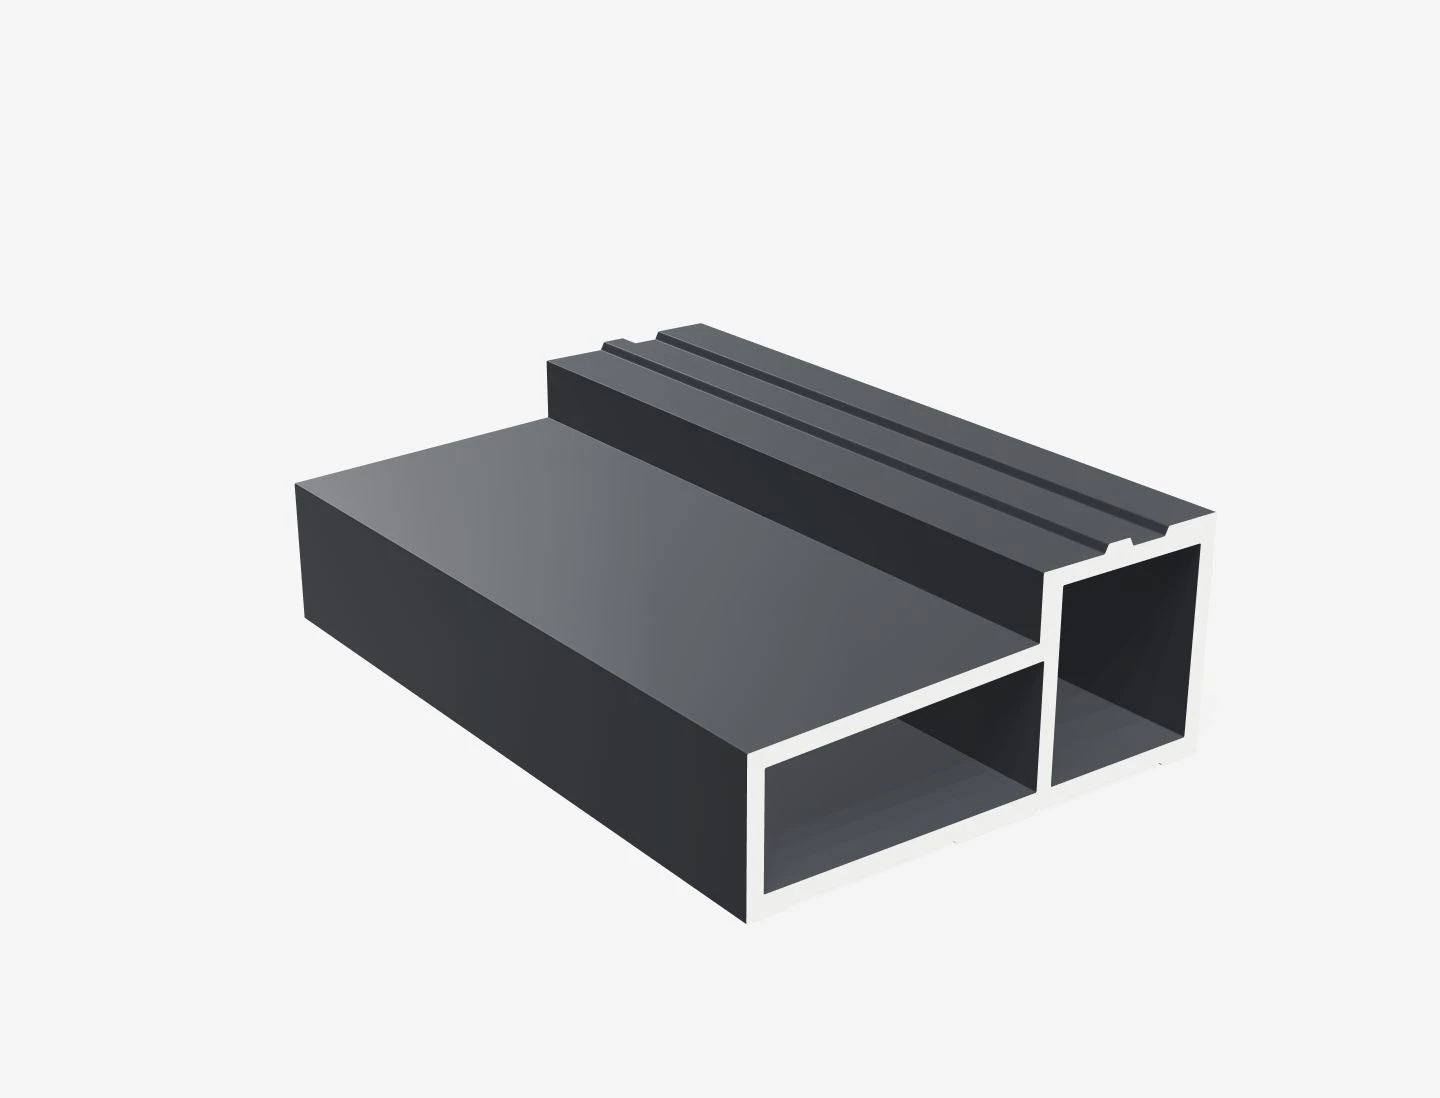
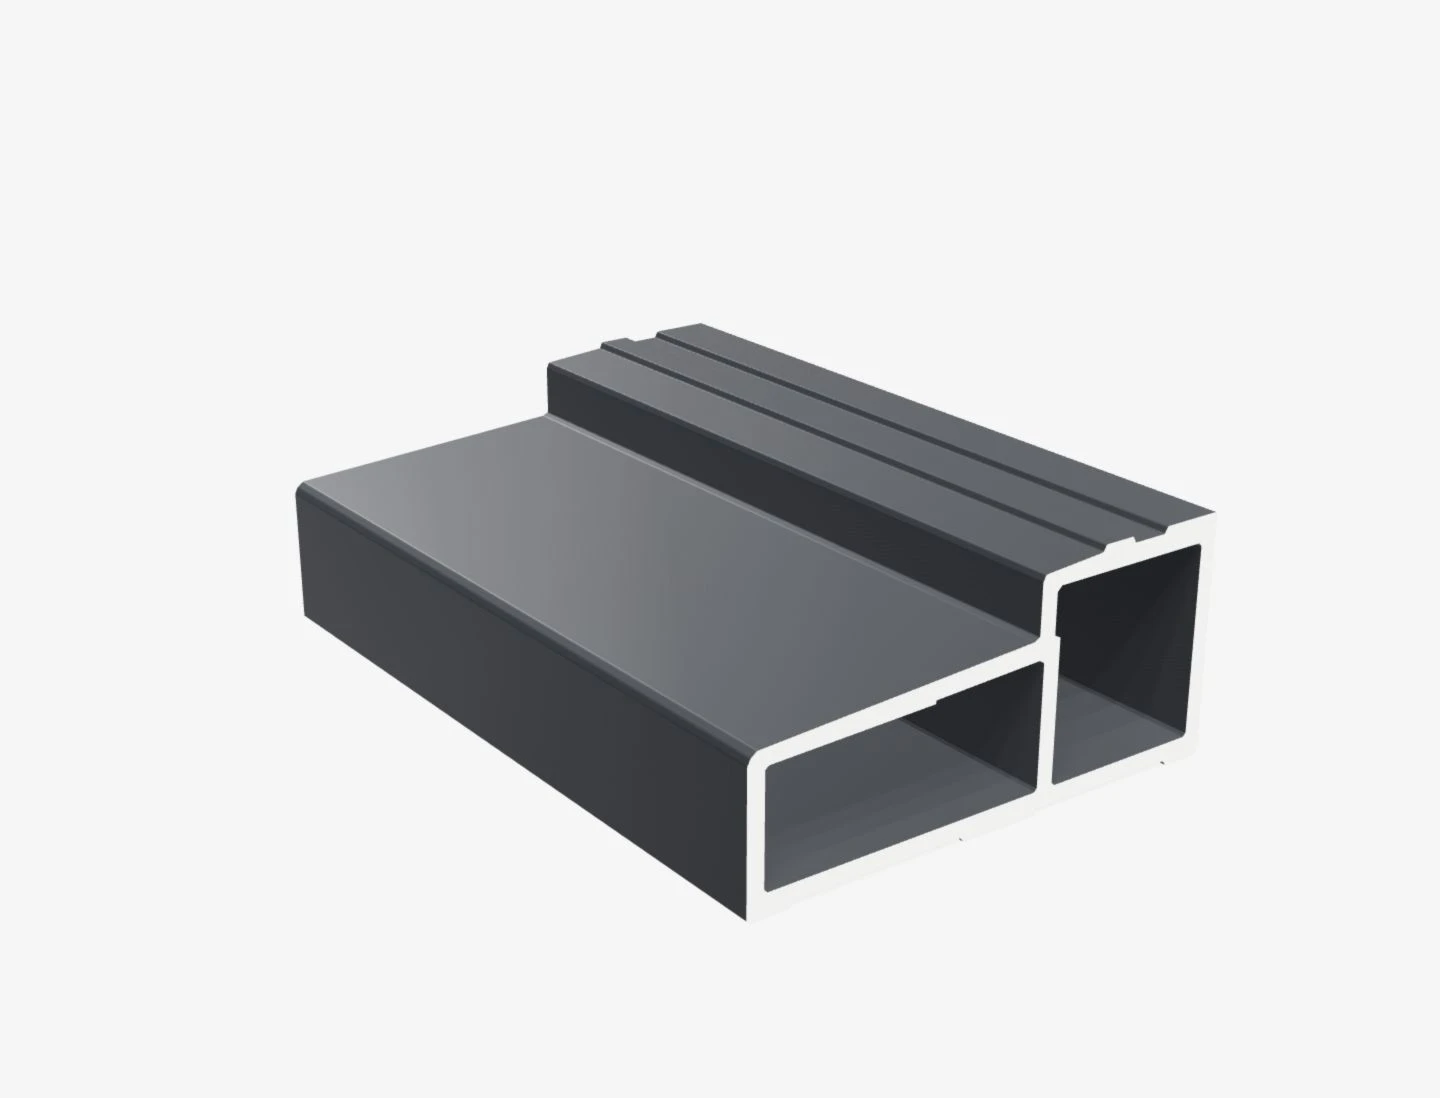
Reconstruct threshold sections from individual reference contours

diff --git a/docs/research/fiberglass-door-thresholds-sources.md b/docs/research/fiberglass-door-thresholds-sources.md
@@ -40,6 +40,13 @@ The user identified pultruded fiber-reinforced door thresholds, requested F1 bra
 - The 120 mm width, 55 mm overall envelope and 48.5 / 93 mm raised widths guide proportions. Unspecified wall thicknesses, small details and corner radii are illustrative. The public page does not treat these as approved production drawings, stock models or evidence of compatibility with a named supplier system.
 - No supplier names, identifying text, photographs, fittings or logos appear in these renders. The page retains its URL, title, canonical, navigation and inquiry path.
 
+### Section fidelity correction
+
+- User accepted image 3 (outward-opening closed base) and rejected the other three.
+- Images 1, 2 and 4 were rebuilt with independent reference outlines instead of shared simplified geometry. Cavity-roof steps, the right-cavity interface notch, asymmetric top ribs, underside lands and hooked toe ridges follow the supplied sketch.
+- The loops explicitly use opposite winding for outer boundaries and holes. Added front-face ray checks catch invisible cavity walls, which a double-sided topology check alone cannot detect.
+- Image 3 remains byte-for-byte unchanged. Corrected images require visual comparison with the supplied cross-sections in addition to geometric invariants.
+
 ## Discoverability and validation
 
 - Added to the existing Windows & Doors menu and product-family directory.

diff --git a/scripts/threshold-render/README.md b/scripts/threshold-render/README.md
@@ -11,10 +11,19 @@ The 120 mm overall width, 55 mm overall height and 48.5 / 93 mm raised-deck widt
 follow the user-supplied reference sketches. Unspecified wall thicknesses, small
 reliefs and radii are illustrative and require an approved production drawing.
 
+Revision: profiles 1, 2 and 4 now use independent outlines in
+`reference-sections.mjs`, traced from the supplied raster sketch, including the
+internal steps, hooked toe ridge and underside support lands. The shoulder
+locations are calibrated to the indicated 48.5 / 93 mm widths. Raster tracing
+does not establish manufacturing tolerances. Profile 3 and its accepted image
+are retained. Outer and hole loops are explicitly oppositely wound so cavity
+walls remain visible with normal front-face rendering.
+
 `scene.mjs` uses a shared perspective camera, lighting and surface materials.
 The renderer is an offline asset workbench; it adds no client-side Three.js to
 the threshold product page. Export each canvas and encode to WebP at quality 90.
 The published renders are 1440 × 1098, with their complete bounds preserved.
 
 Run `node --test scripts/threshold-render/geometry.test.mjs` to check identical
-front/back profiles, manifold walls, open chambers and the distinct hook/base.
+front/back profiles, manifold walls, open chambers, the distinct hook/base and
+cavity wall normals (front-face and double-sided ray distances must agree).
